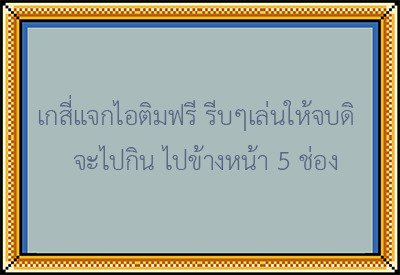
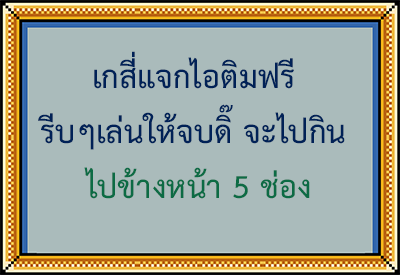
update event

Changed region(s): [[0.09, 0.3491, 0.9, 0.7273], [0.21, 0.1745, 0.75, 0.32]]

diff --git a/js/board.js b/js/board.js
@@ -135,14 +135,17 @@ function moveFunction(start, end) {
 }
 
 function reverseCounter(back) {
+    console.log('hi')
     var reverse = player[loser].step - back;
     if (reverse < 1) {
         reverse = 1;
     }
+    console.log('hi2')
     moveReverse(reverse);
 }
 
 function moveReverse(reverse) {
+    console.log('hi3')
     if (player[loser].step != 1) {
         player[loser].step--;
     }
@@ -190,13 +193,42 @@ function checkDisplay(check, how) {
 
 var theEvent = document.querySelector("#theEvent");
 function eventFunction() {
-    num = Math.floor(Math.random()) + 1;
+    num = Math.floor(Math.random()*5) + 1;
     console.log(num);
+    theEvent.setAttribute("event", num);
+    theEvent.style.display = "inline-block";
     switch (num) {
         case 1:
-            theEvent.style.display = "inline-block";
             setTimeout(() => {
                 moveCounter(5);
+                theEvent.style.display = 'none';
+            }, 1500);
+            break;
+        case 2:
+            setTimeout(() => {
+                if(player[turn].life < 5){
+                    player[turn].life += 1;
+                }
+                updateLife(turn);
+                theEvent.style.display = 'none';
+            }, 1500);
+            break;
+        case 3:
+            setTimeout(() => {
+                moveCounter(3);
+                theEvent.style.display = 'none';
+            }, 1500);
+            break;
+        case 4:
+            setTimeout(() => {
+                moveCounter(1);
+                theEvent.style.display = 'none';
+            }, 1500);
+            break;
+        case 5:
+            setTimeout(() => {
+                loser = turn;
+                reverseCounter(5);
                 theEvent.style.display = 'none';
             }, 1500);
             break;

diff --git a/styles/game.css b/styles/game.css
@@ -167,6 +167,9 @@ dice[score="0"]{
     background-size: contain;
     left: 45%;
     top: 30px;
-    background: url("../imgs/Event/Event_1.png") no-repeat center;
 }
-
+#theEvent[event="1"]{background: url("../imgs/Event/Event_1.png") no-repeat center;}
+#theEvent[event="2"]{background: url("../imgs/Event/Event_2.png") no-repeat center;}
+#theEvent[event="3"]{background: url("../imgs/Event/Event_3.png") no-repeat center;}
+#theEvent[event="4"]{background: url("../imgs/Event/Event_4.png") no-repeat center;}
+#theEvent[event="5"]{background: url("../imgs/Event/Event_5.png") no-repeat center;}
